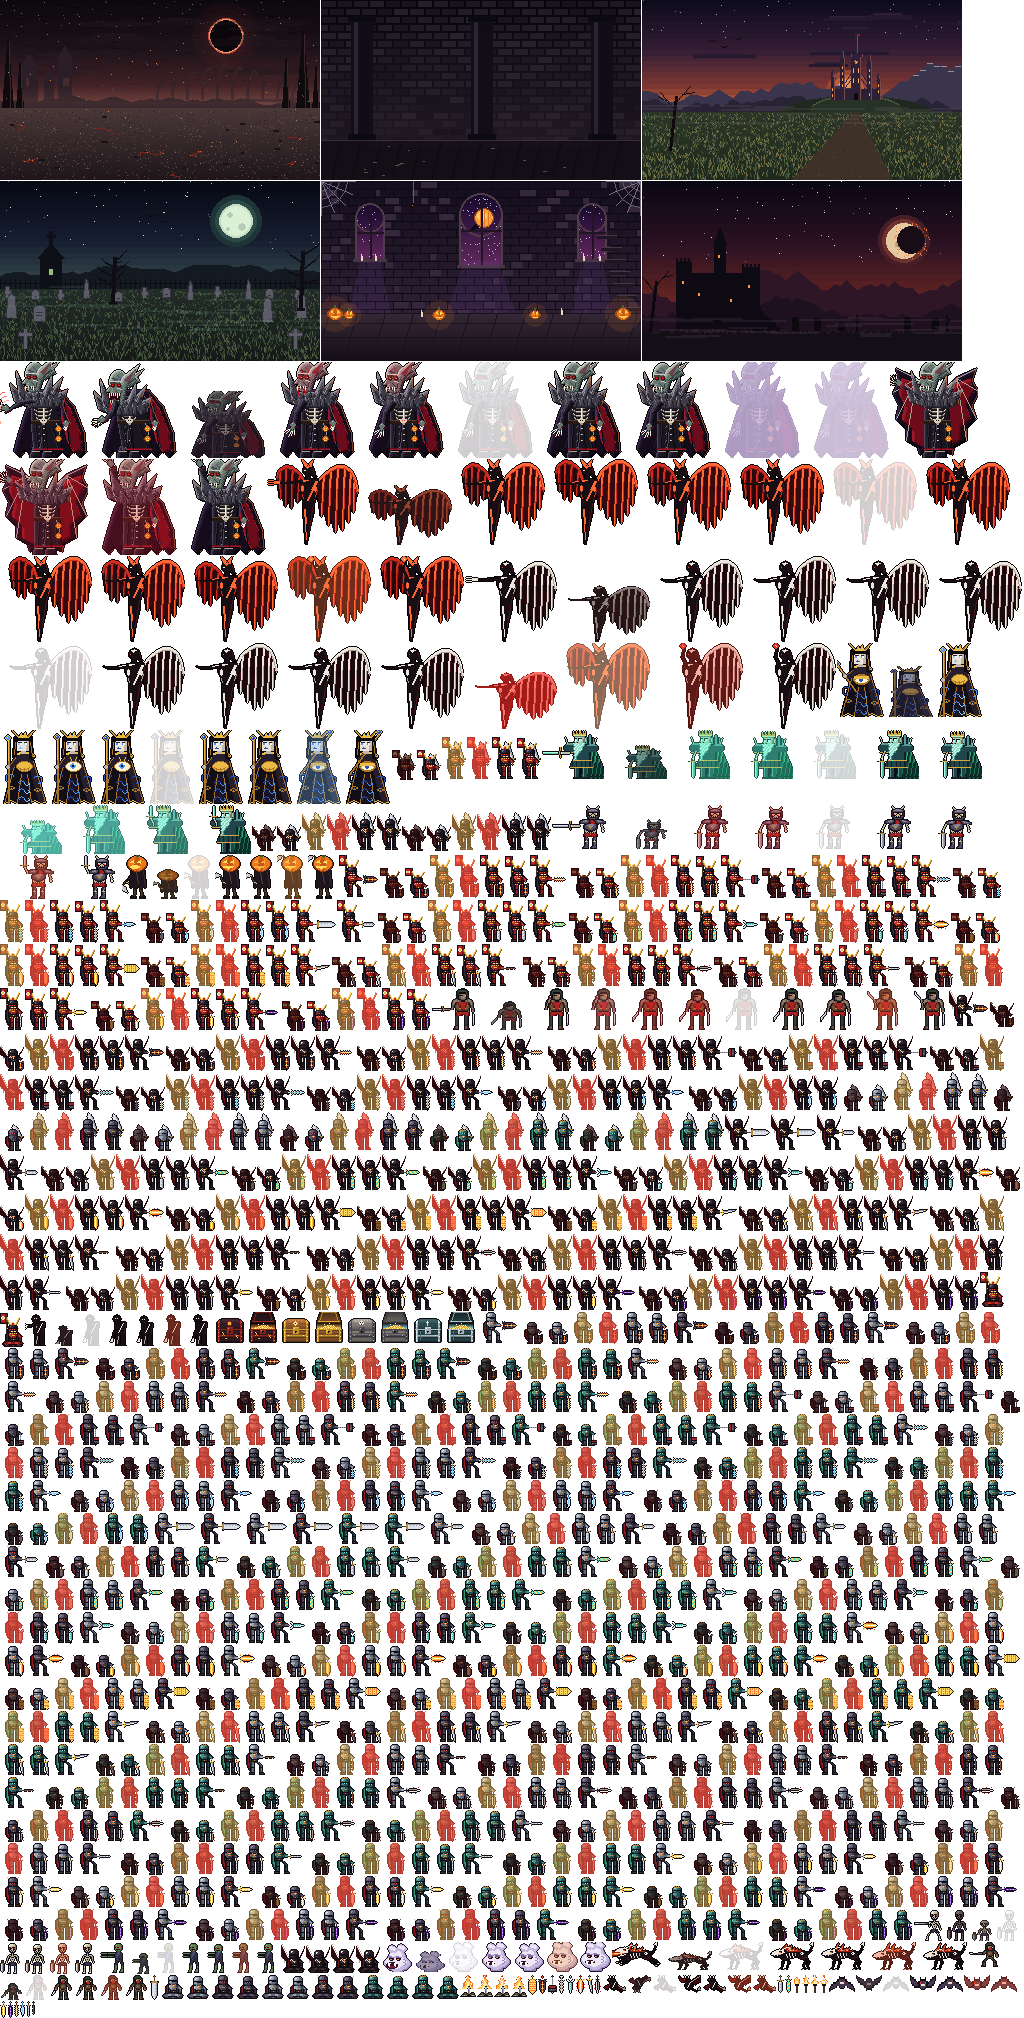
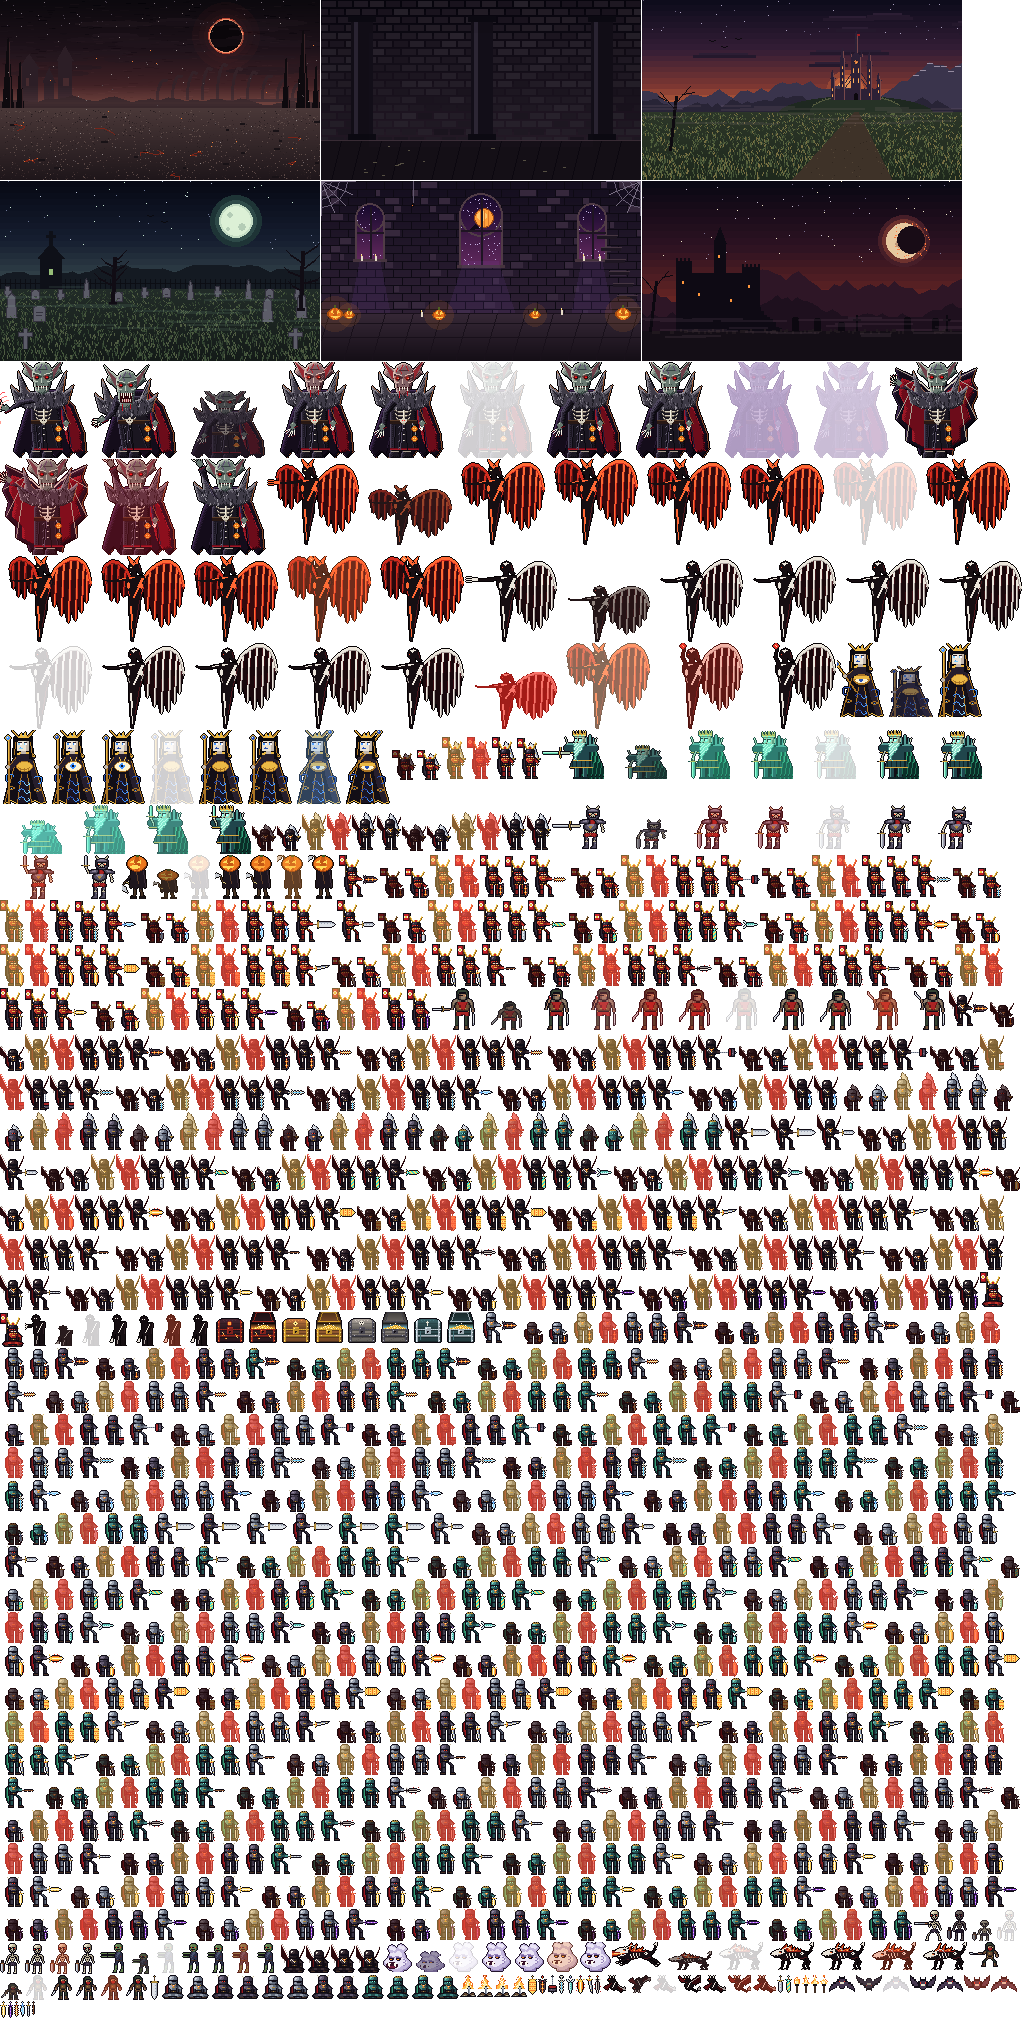
Граф Тыквенной Крови: голова ровно, анфас
Голова была в три четверти и смещена от оси тела — выглядела кривой.
Теперь лицо симметричное, анфас, ровно над центром камзола: уши в обе
стороны, брови «галочкой», нос и клыки по оси; стоячий воротник тоже
симметричный.

Claude-Session: https://claude.ai/code/session_011mW4u7Ce1C3wwPLST6Z2ZA

diff --git a/fitness_rpg/web/sw.js b/fitness_rpg/web/sw.js
@@ -1,5 +1,5 @@
 // Офлайн-кэш: после первого запуска с сетью игра открывается и без интернета.
-const CACHE = "ash-and-iron-v42";
+const CACHE = "ash-and-iron-v43";
 const CORE = [
   "./", "index.html", "style.css", "manifest.webmanifest",
   "js/game.js", "js/online.js", "js/motion.js", "js/exercises.js", "js/player.js", "js/sfx.js", "js/gear.js",

diff --git a/fitness_rpg/game/vampire.py b/fitness_rpg/game/vampire.py
@@ -213,85 +213,88 @@ def arm(s, shoulder, elbow, hand, front=True):
     s.set_at((hand[0] - 1, hand[1] - 1), SKIN[2])
 
 
-def collar(s, hx, hy):
-    """Высокий стоячий воротник из серого меха: шипы обрамляют голову сзади, мех лежит на плечах."""
-    spikes = [(hx - 10, hy + 36), (hx - 15, hy + 18), (hx - 6, hy + 27), (hx - 9, hy + 6), (hx + 1, hy + 26),
-              (hx + 18, hy + 27), (hx + 27, hy + 9), (hx + 26, hy + 24), (hx + 37, hy + 12), (hx + 32, hy + 28),
-              (hx + 42, hy + 24), (hx + 38, hy + 38)]
-    m = part(s, FUR, poly(spikes + [(hx + 30, hy + 42), (hx + 4, hy + 42)]), rim=True)
-    for (x0, y0), (x1, y1) in zip(spikes[1::2], spikes[2::2]):  # пряди вдоль шипов
-        line(s, FUR[3], (x0 + 1, y0 + 3), ((x0 + x1) // 2, (y0 + y1) // 2 + 2))
-        line(s, FUR[0], (x0 + 3, y0 + 6), ((x0 + x1) // 2 + 2, (y0 + y1) // 2 + 6))
+def collar(s, cx, hy):
+    """Высокий стоячий воротник из серого меха, симметричный по оси тела cx: шипы обрамляют голову
+    сзади, мех лежит на плечах."""
+    half = [(-26, 38), (-31, 20), (-21, 28), (-24, 6), (-14, 25), (-11, 27)]
+    spikes = [(cx + dx, hy + dy) for dx, dy in half] + [(cx - dx, hy + dy) for dx, dy in reversed(half)]
+    m = part(s, FUR, poly(spikes + [(cx + 16, hy + 43), (cx - 16, hy + 43)]), rim=True)
+    for sd in (-1, 1):  # пряди вдоль шипов
+        for (dx0, dy0), (dx1, dy1) in zip(half[1::2], half[2::2]):
+            x0 = cx + (dx0 if sd < 0 else -dx0)
+            x1 = cx + (dx1 if sd < 0 else -dx1)
+            line(s, FUR[3] if sd < 0 else FUR[2], (x0 - sd, hy + dy0 + 3), ((x0 + x1) // 2, (hy + dy0 + hy + dy1) // 2 + 2))
+            line(s, FUR[0], (x0 - sd * 3, hy + dy0 + 6), ((x0 + x1) // 2 - sd * 2, (hy + dy0 + hy + dy1) // 2 + 6))
     rnd = random.Random(7)  # фактура меха: короткие пряди вниз по всей мантии
-    for _ in range(70):
-        x, y = rnd.randrange(hx - 8, hx + 38), rnd.randrange(hy + 26, hy + 42)
+    for _ in range(80):
+        x, y = rnd.randrange(cx - 24, cx + 25), rnd.randrange(hy + 26, hy + 43)
         if m.get_at((x, y)) and m.get_at((x, min(H - 1, y + 2))):
             line(s, rnd.choice((FUR[0], FUR[2], FUR[3], FUR[0])), (x, y), (x + rnd.choice((-1, 0, 1)), y + 2))
-    for x in (hx + 2, hx + 9, hx + 17, hx + 25):  # мех на плечах: неровные клочья
-        line(s, FUR[2], (x, hy + 34), (x - 1, hy + 39))
-        line(s, FUR[0], (x + 2, hy + 35), (x + 3, hy + 40))
 
 
 def head(s, hx, hy, pose, fury):
-    """Голова: вытянутый лысый череп, уши-крылья назад, глазницы, нос крючком, пасть с клыками."""
+    """Голова анфас, симметричная: вытянутый лысый череп, уши-крылья в стороны, глазницы, нос крючком,
+    пасть с клыками. hx — левый край черепа (ширина 20), hy — макушка."""
     skin = SKIN_F if fury else SKIN
     bite = pose == "bite"
-    # дальнее ухо (за черепом) и ближнее
-    part(s, skin, poly([(hx + 14, hy + 6), (hx + 34, hy - 4), (hx + 28, hy + 4), (hx + 30, hy + 8), (hx + 20, hy + 14)]))
-    line(s, (120, 70, 80), (hx + 18, hy + 8), (hx + 31, hy - 2))  # прожилки уха
-    # череп: высокий купол и челюсть клином вниз
+    c = hx + 10  # ось симметрии лица
     jaw_drop = 6 if bite else 0
-    skull = many(ell((hx, hy - 3, 19, 24)), poly([(hx + 1, hy + 10), (hx + 18, hy + 12), (hx + 14, hy + 26 + jaw_drop),
-                                               (hx + 6, hy + 28 + jaw_drop), (hx + 1, hy + 22 + jaw_drop)]))
+    inner = (110, 64, 74) if not fury else (150, 40, 50)
+    # уши: огромные, острые, в стороны и вверх (за черепом)
+    for sd in (-1, 1):
+        ear = [(c + sd * 7, hy + 6), (c + sd * 22, hy - 8), (c + sd * 17, hy + 2), (c + sd * 19, hy + 7), (c + sd * 9, hy + 15)]
+        part(s, skin, poly(ear))
+        pygame.draw.polygon(s, inner, [(c + sd * 9, hy + 7), (c + sd * 19, hy - 4), (c + sd * 11, hy + 12)])
+        line(s, skin[3] if sd < 0 else skin[0], (c + sd * 8, hy + 5), (c + sd * 21, hy - 7))
+    # череп: высокий купол и симметричная челюсть клином вниз
+    skull = many(ell((hx, hy - 3, 21, 24)), poly([(hx + 1, hy + 12), (hx + 20, hy + 12), (c + 6, hy + 26 + jaw_drop),
+                                               (c, hy + 29 + jaw_drop), (c - 6, hy + 26 + jaw_drop)]))
     part(s, skin, skull)
     # вены на черепе
-    for pts in (((hx + 8, hy + 2), (hx + 11, hy + 5), (hx + 10, hy + 9)), ((hx + 14, hy + 3), (hx + 16, hy + 7)),
-                ((hx + 4, hy + 4), (hx + 5, hy + 7))):
-        pygame.draw.lines(s, (90, 70, 110) if not fury else (180, 30, 40), False, pts)
-    # ближнее ухо: огромное, острое, назад-вверх
-    ear = [(hx + 11, hy + 9), (hx + 14, hy + 3), (hx + 30, hy - 9), (hx + 25, hy + 1), (hx + 28, hy + 5), (hx + 20, hy + 10), (hx + 17, hy + 16)]
-    part(s, skin, poly(ear))
-    pygame.draw.polygon(s, (110, 64, 74) if not fury else (150, 40, 50), [(hx + 15, hy + 7), (hx + 26, hy - 4), (hx + 19, hy + 9)])  # внутренняя сторона уха
-    line(s, skin[3], (hx + 14, hy + 3), (hx + 29, hy - 8))
-    line(s, skin[0], (hx + 20, hy + 10), (hx + 17, hy + 15))
-    # нависшая бровь и глубокие глазницы
-    line(s, skin[0], (hx + 1, hy + 9), (hx + 11, hy + 10), 2)
-    line(s, skin[3], (hx + 1, hy + 8), (hx + 10, hy + 8))
-    for ex in (hx + 2, hx + 8):
+    vein = (90, 70, 110) if not fury else (180, 30, 40)
+    for pts in (((c - 1, hy - 1), (c - 3, hy + 3), (c - 2, hy + 7)), ((c + 3, hy), (c + 5, hy + 4)), ((c - 6, hy + 2), (c - 7, hy + 5))):
+        pygame.draw.lines(s, vein, False, pts)
+    # нависшая бровь — «галочкой» к переносице (злой взгляд), глубокие глазницы
+    for sd in (-1, 1):
+        line(s, skin[0], (c + sd * 9, hy + 8), (c + sd * 1, hy + 11), 2)
+        line(s, skin[3], (c + sd * 9, hy + 7), (c + sd * 2, hy + 9))
+    for ex in (c - 7, c + 3):
         pygame.draw.ellipse(s, skin[0], (ex - 1, hy + 10, 6, 5))  # тень глазницы
         pygame.draw.rect(s, (20, 6, 10), (ex, hy + 11, 4, 3))
         s.set_at((ex + 1, hy + 12), EYE)
         s.set_at((ex + 2, hy + 12), EYE_CORE if fury else EYE)
         s.set_at((ex + 1, hy + 11), (120, 10, 14))
-    # морщины лба, впалые щёки, скулы
-    line(s, skin[0], (hx + 3, hy + 5), (hx + 8, hy + 6))
-    line(s, skin[0], (hx + 12, hy + 14), (hx + 11, hy + 21 + jaw_drop // 2))
-    line(s, skin[3], (hx + 8, hy + 15), (hx + 12, hy + 16))  # скула
-    line(s, skin[0], (hx + 6, hy + 17), (hx + 9, hy + 20))  # провал щеки
-    # нос крючком
-    pygame.draw.polygon(s, skin[1], [(hx + 1, hy + 13), (hx - 3, hy + 18), (hx + 1, hy + 19), (hx + 3, hy + 16)])
-    line(s, skin[3], (hx, hy + 14), (hx - 2, hy + 17))
-    s.set_at((hx, hy + 18), skin[0])
+        s.set_at((ex + 2, hy + 11), (120, 10, 14))
+    # морщины лба, скулы, впалые щёки — с обеих сторон
+    line(s, skin[0], (c - 4, hy + 4), (c + 4, hy + 4))
+    for sd in (-1, 1):
+        line(s, skin[3], (c + sd * 5, hy + 16), (c + sd * 9, hy + 15))  # скула
+        line(s, skin[0], (c + sd * 6, hy + 18), (c + sd * 5, hy + 23 + jaw_drop // 2))  # провал щеки
+    # нос крючком — по центру
+    pygame.draw.polygon(s, skin[1], [(c - 1, hy + 12), (c + 1, hy + 12), (c + 2, hy + 18), (c, hy + 19), (c - 2, hy + 18)])
+    line(s, skin[3], (c - 1, hy + 13), (c - 1, hy + 17))
+    s.set_at((c - 1, hy + 18), skin[0])
+    s.set_at((c + 1, hy + 18), skin[0])
     # пасть
     my = hy + 21
     if bite:  # раскрыта: ряды игл и язык
-        pygame.draw.polygon(s, MAW, [(hx - 1, my - 1), (hx + 11, my - 1), (hx + 10, my + 8), (hx + 1, my + 9)])
-        pygame.draw.ellipse(s, (150, 30, 50), (hx + 2, my + 5, 6, 3))
-        for x in range(hx, hx + 11, 2):  # верхние клыки
-            ln = 4 if x in (hx, hx + 8) else 2
+        pygame.draw.polygon(s, MAW, [(c - 6, my - 1), (c + 6, my - 1), (c + 5, my + 8), (c - 5, my + 8)])
+        pygame.draw.ellipse(s, (150, 30, 50), (c - 3, my + 5, 7, 3))
+        for x in range(c - 5, c + 6, 2):  # верхние клыки
+            ln = 4 if x in (c - 3, c + 3) else 2
             line(s, BONE[3], (x, my - 1), (x, my - 1 + ln))
-        for x in range(hx + 1, hx + 10, 2):  # нижние
-            line(s, BONE[2], (x, my + 8), (x, my + 6))
+        for x in range(c - 4, c + 5, 2):  # нижние
+            line(s, BONE[2], (x, my + 7), (x, my + 5))
     else:
-        line(s, MAW, (hx - 1, my), (hx + 10, my + 1))
-        line(s, skin[0], (hx + 1, my + 2), (hx + 9, my + 3))
-        for x, ln in ((hx, 4), (hx + 3, 2), (hx + 6, 2), (hx + 8, 4)):  # клыки поверх губы
+        line(s, MAW, (c - 6, my), (c + 6, my))
+        line(s, skin[0], (c - 5, my + 2), (c + 5, my + 2))
+        for x, ln in ((c - 4, 4), (c - 1, 2), (c + 1, 2), (c + 4, 4)):  # клыки поверх губы
             line(s, BONE[3], (x, my), (x, my + ln))
             s.set_at((x, my + ln), BONE[1])
     if fury or bite:  # кровь стекает по подбородку
-        for x, ln in ((hx + 1, 5), (hx + 7, 3)):
-            line(s, (170, 10, 24), (x, my + 3 + jaw_drop), (x, my + 3 + jaw_drop + ln))
-            s.set_at((x, my + 4 + jaw_drop + ln), (230, 40, 50))
+        for x, ln in ((c - 4, 5), (c + 4, 3)):
+            line(s, (170, 10, 24), (x, my + 4 + jaw_drop), (x, my + 4 + jaw_drop + ln))
+            s.set_at((x, my + 5 + jaw_drop + ln), (230, 40, 50))
 
 
 def glow(s, pts, col=(255, 40, 40), a=90):
@@ -310,7 +313,7 @@ def vampire(pose="idle", sway=0, fury=False):
     s = pygame.Surface((W, H), pygame.SRCALPHA)
     lean = {"bite": -10, "slash": -5}.get(pose, 0)
     breath = sway if pose == "idle" else 0
-    hx, hy = 30 + lean, 3 + breath + (8 if pose == "bite" else 0)
+    hx, hy = 37 + lean, 3 + breath + (8 if pose == "bite" else 0)  # ось лица — над центром камзола
     cape_back(s, pose, sway)
     boots(s, lean)
     # дальняя рука держит край плаща
@@ -318,7 +321,7 @@ def vampire(pose="idle", sway=0, fury=False):
         arm(s, (58, 36), (64, 50), (66, 60), front=False)
         claws(s, (66, 61), math.pi / 2, 0.7, 8)
     coat(s, lean, fury)
-    collar(s, hx, hy)
+    collar(s, hx + 10, hy)  # воротник — по оси лица, голова сидит в нём ровно
     head(s, hx, hy, pose, fury)
     # ближняя рука
     sh = (38 + lean, 38 + breath)
@@ -338,7 +341,7 @@ def vampire(pose="idle", sway=0, fury=False):
         arm(s, sh, (30, 50), (26, 62 + breath))
         claws(s, (26, 63 + breath), math.pi / 2 + 0.25, 1.0, 12)
     out = outlined(s, (4, 2, 6))
-    eyes = [(hx + 3, hy + 12), (hx + 9, hy + 12)]  # (голова поднята — глаза там же относительно черепа)
+    eyes = [(hx + 4, hy + 12), (hx + 14, hy + 12)]
     glow(out, eyes, (255, 60, 40) if fury else (255, 30, 30), 130 if fury else 90)
     if pose == "slash":  # след когтей: три алые дуги
         for k in range(3):
